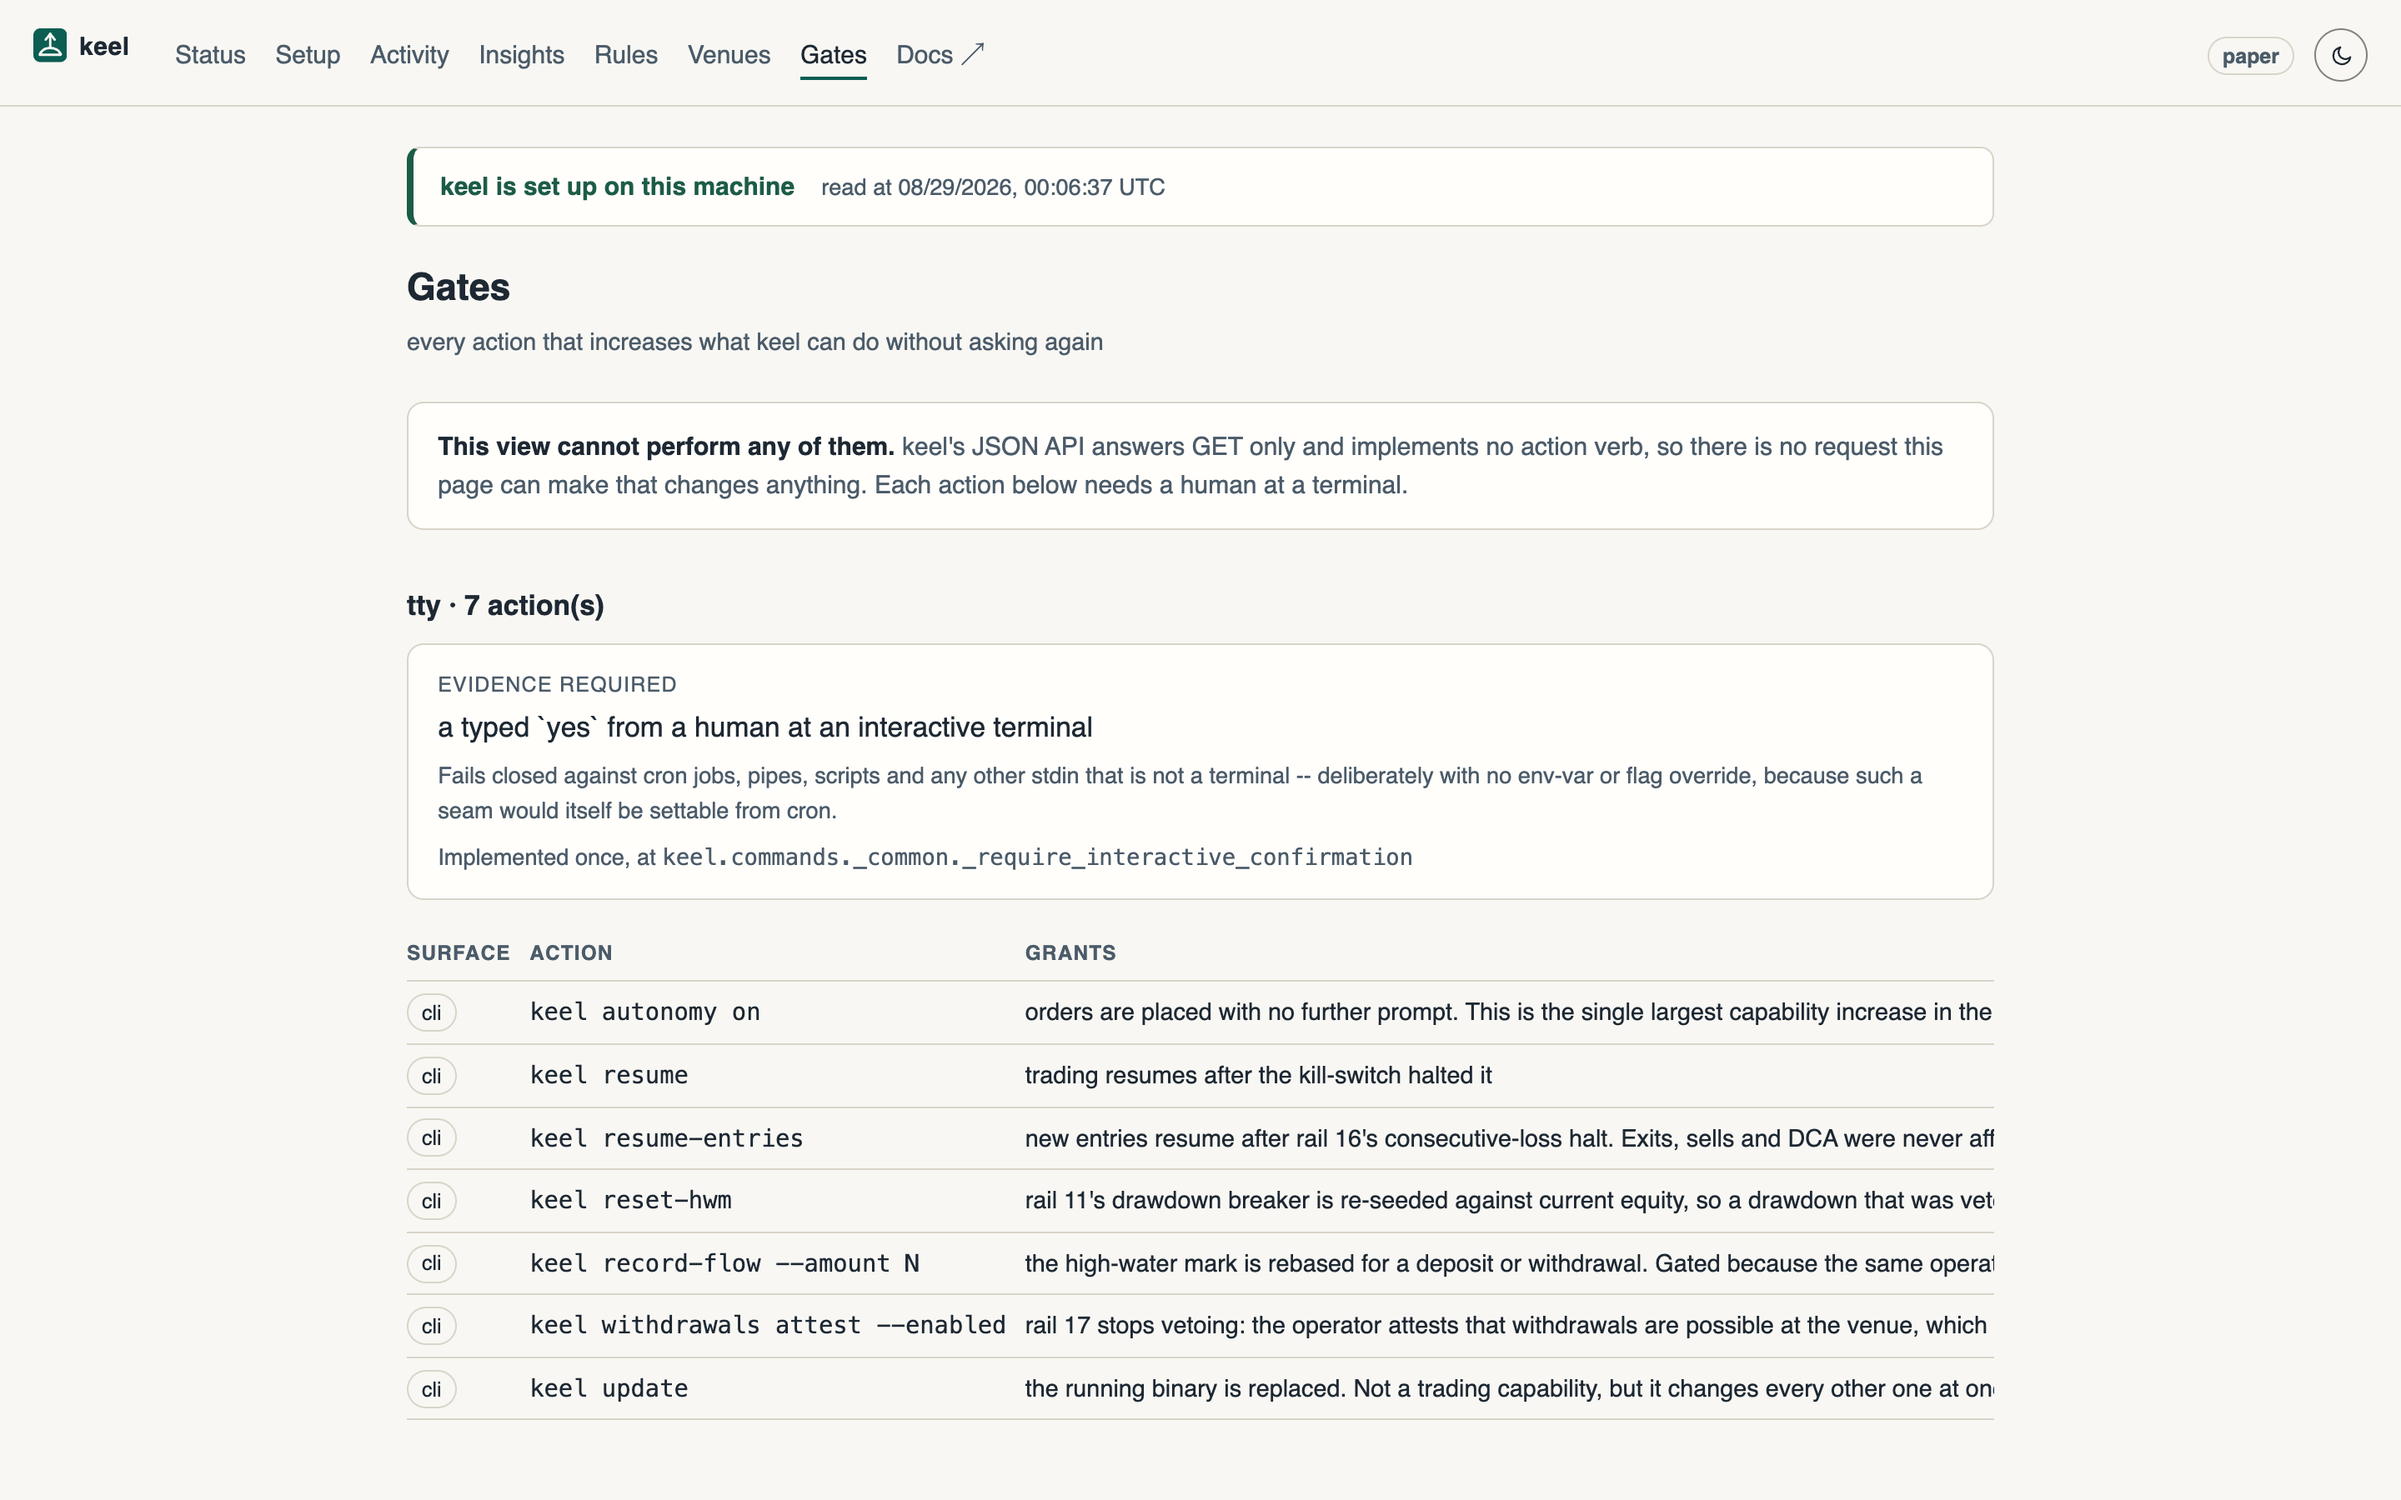
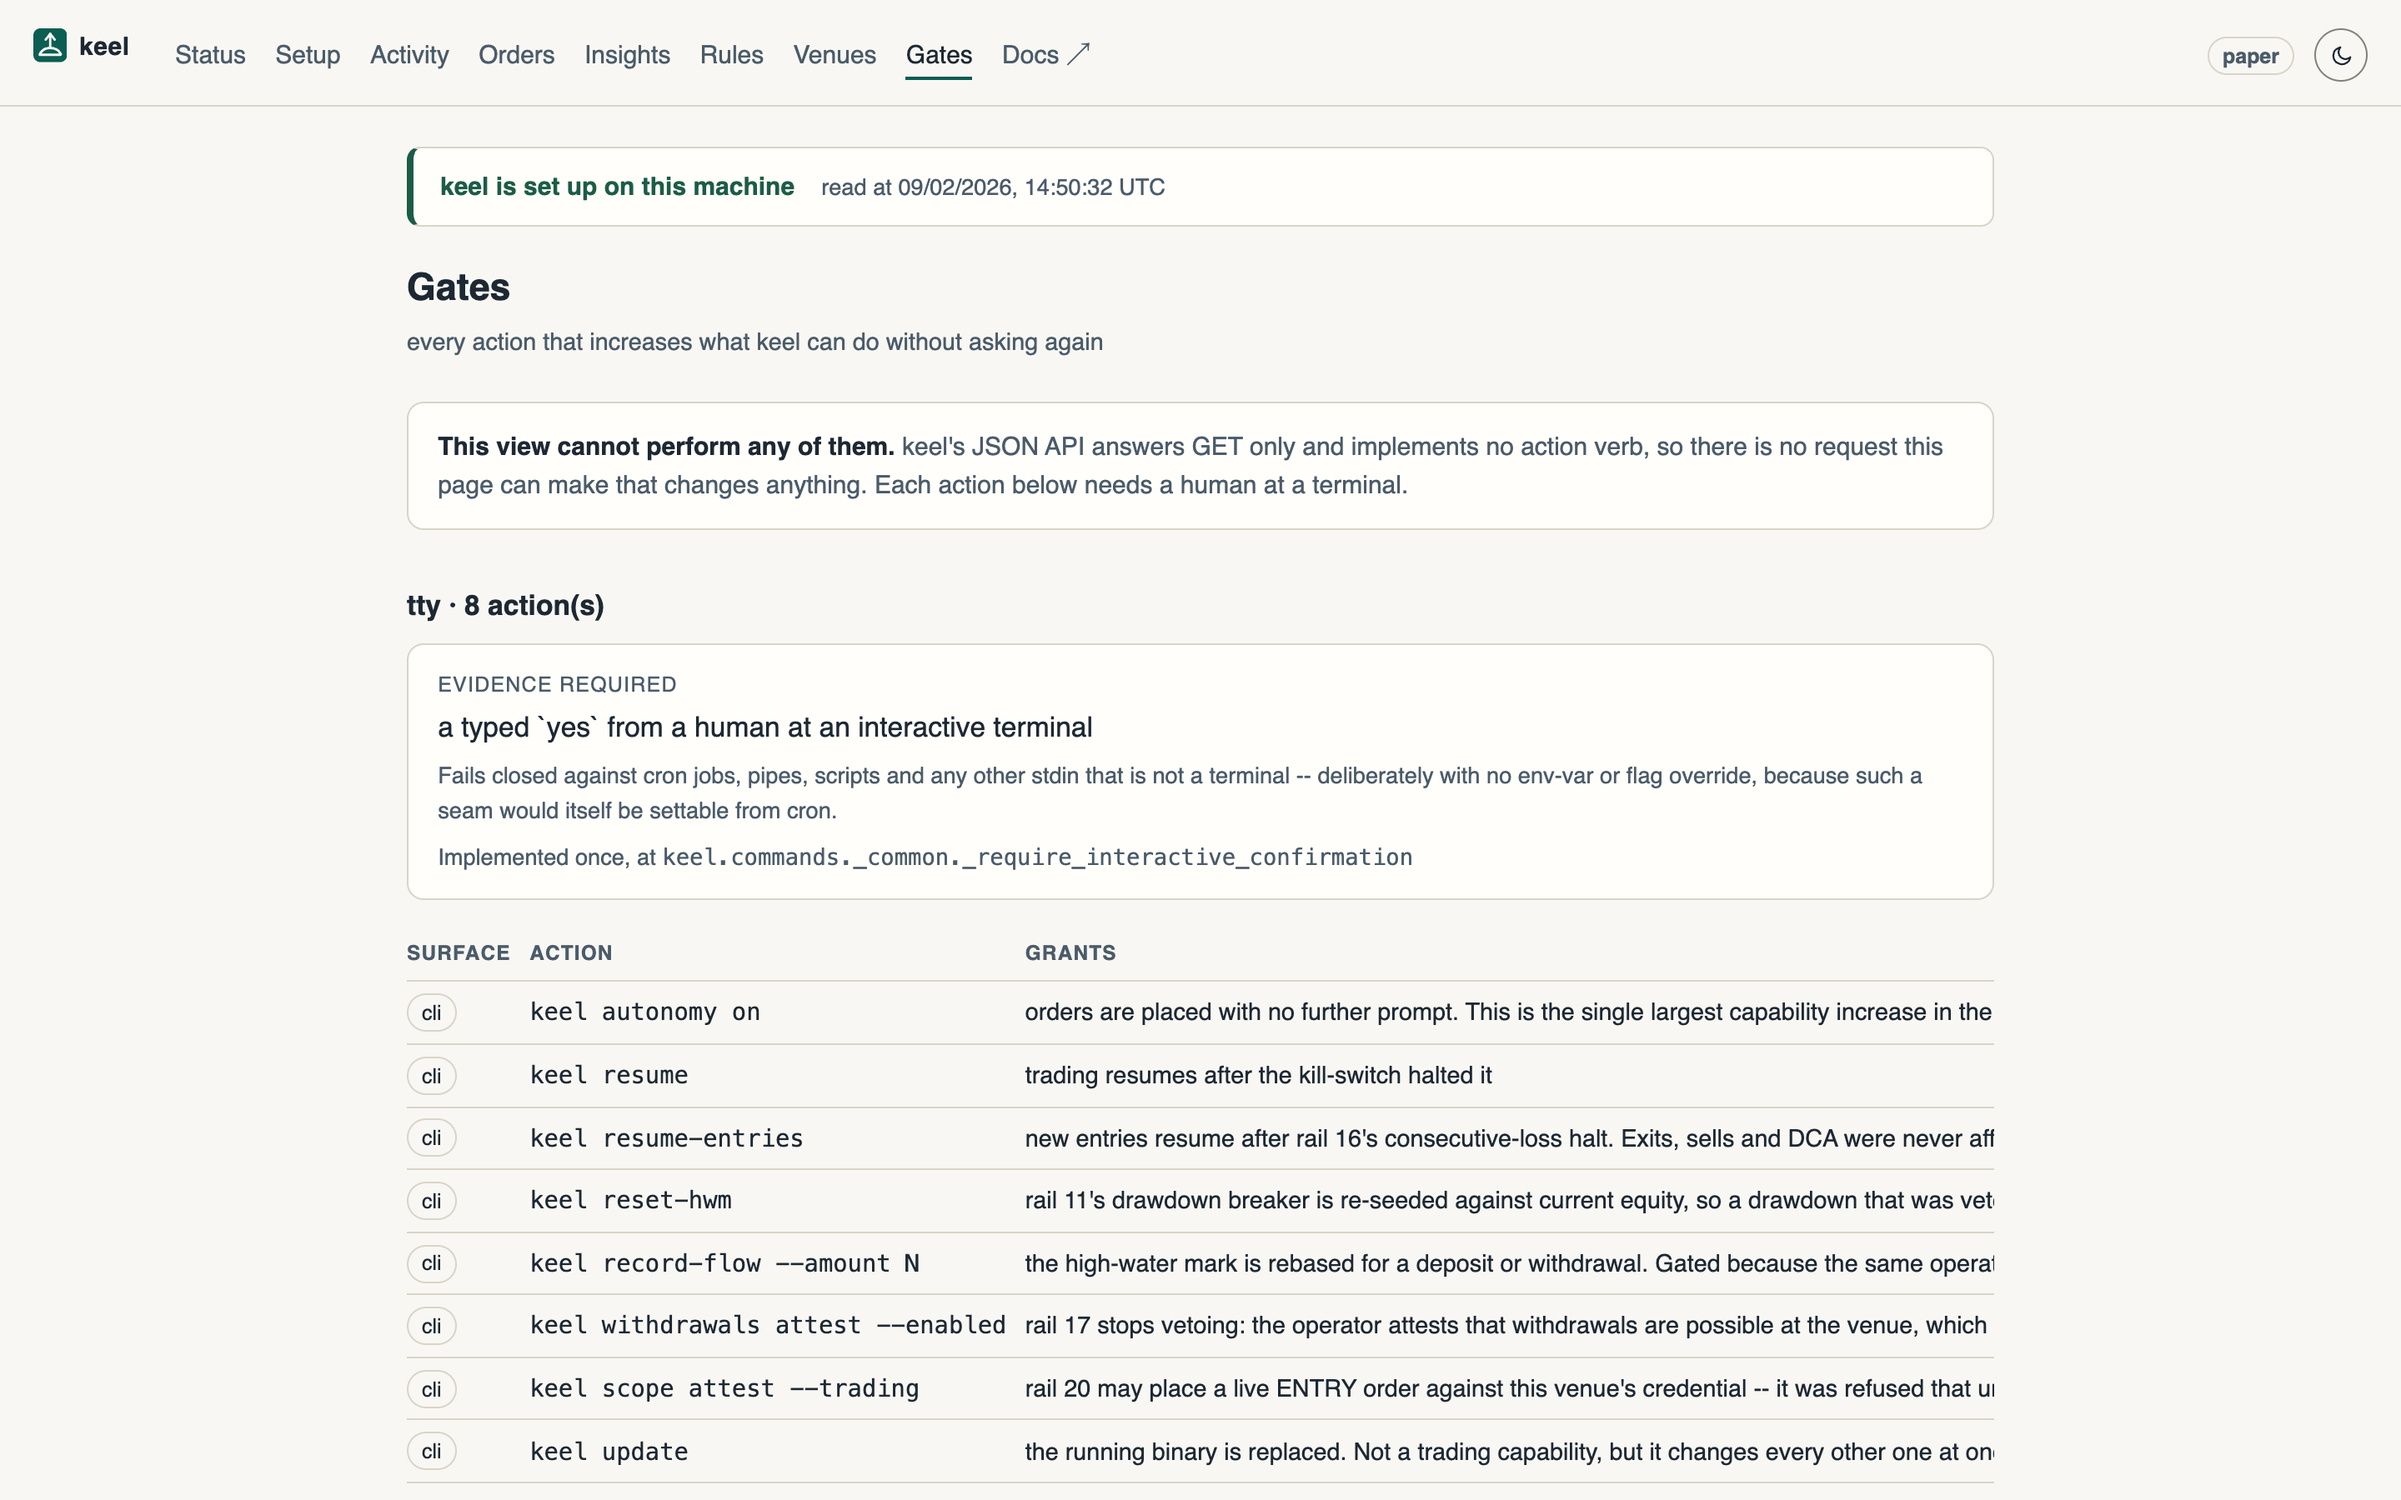
feat(content): sync the guides, the manifest and the comparison to v0.13.3 (#139)
Working-tree copy brought up to what the engine actually ships.

- Get Started: seven console views become eight, with Orders -- the ledger of every
  order placed, each carrying the venue's own bid and ask at submission -- and a new
  step for `keel scope attest --trading`, the rail-20 gate that ships closed.
- The comparison matrix reads 20 rails rather than 18, in all three locales:
  `guards.py` gained rail 20 (trade scope, #233) and rail 21 (base balance, #667),
  numbered 1-14 and 16-21 because rail 15 was retired and its number never reused.
- Engine-docs manifest: adds `docs/architecture.md` and
  `docs/decisions/0004-monetisation-not-now.md`.
- Regenerated web-console screenshots.

diff --git a/src/i18n/guides/content.ts b/src/i18n/guides/content.ts
@@ -1,7 +1,7 @@
 /**
  * Get Started guides — editorial, site-authored newbie walkthroughs (EN for
  * now, like the engine documents themselves). Every command, page and button
- * below was verified against keel v0.12.2: the screenshots in
+ * below was verified against keel v0.13.2: the screenshots in
  * public/get-started/ were captured by scripts/render-webui-shots.mjs from a
  * real `keel serve` console on a fresh paper working directory — the curses
  * TUI these guides used to teach was deleted from the engine before v0.12.2
@@ -66,13 +66,13 @@ export const guides: Guide[] = [
         code: "keel serve",
       },
       {
-        title: "Step 4 — Take the tour: seven views",
+        title: "Step 4 — Take the tour: eight views",
         body: [
-          "keel serve prints a URL carrying a one-time token for this run, opens your browser, and from there everything lives behind the header's seven views. Status (the page you land on) answers \"is it alive\"; Setup is the checklist of what this deployment still needs; Activity, Insights, Rules and Venues report what keel did and found; Gates lists every capability-increasing action and what gates it. The eighth header entry, Docs, links out to the documentation you are reading.",
+          "keel serve prints a URL carrying a one-time token for this run, opens your browser, and from there everything lives behind the header's eight views. Status (the page you land on) answers \"is it alive\"; Setup is the checklist of what this deployment still needs; Activity, Insights, Rules and Venues report what keel did and found; Orders is the ledger of every order placed, each carrying the venue's own bid and ask at the moment keel submitted it; Gates lists every capability-increasing action and what gates it. The ninth header entry, Docs, links out to the documentation you are reading.",
         ],
         shot: "/get-started/webui-status.png",
         shotCaption:
-          "The console's Status view with the seven-view header: Status, Setup, Activity, Insights, Rules, Venues, Gates. The paper badge (top right) is the deployment's mode; the footer says it is served from this machine only.",
+          "The console's Status view with the eight-view header: Status, Setup, Activity, Orders, Insights, Rules, Venues, Gates. The paper badge (top right) is the deployment's mode; the footer says it is served from this machine only.",
       },
       {
         title: "Step 5 — Read the dashboard",
@@ -205,7 +205,7 @@ export const guides: Guide[] = [
         ],
         shot: "/get-started/webui-gates.png",
         shotCaption:
-          "The Gates view: keel autonomy on, keel resume, keel withdrawals attest --enabled and friends — each with what it increases, and the terminal gate (a typed yes at an interactive TTY) it must pass.",
+          "The Gates view: eight actions — keel autonomy on, keel resume, keel withdrawals attest --enabled, keel scope attest --trading and the rest — each with what it increases, and the terminal gate (a typed yes at an interactive TTY) it must pass.",
       },
       {
         title: "Step 2 — Screen and attest the allowlist",
@@ -230,7 +230,14 @@ export const guides: Guide[] = [
         code: "keel withdrawals attest --enabled",
       },
       {
-        title: "Step 5 — Purification, honestly",
+        title: "Step 5 — Attest the venue's trade scope (rail 20)",
+        body: [
+          "A credential that reads fine is not evidence it can trade: keel has watched a well-formed key pass every read and still have its first live order refused by the venue. Rail 20 closes that hole by failing closed — until a venue is attested, keel ships unable to place a live entry on it at all. keel scope attest --trading releases that veto, so it demands a typed yes at a terminal; --read-only only ever reduces capability and stays ungated. The record is bound to the credential that earned it, so a rotated key means re-attesting. Like rail 17, this is entries-only — exits are never affected, because an exit must always be able to leave.",
+        ],
+        code: "keel scope attest --trading",
+      },
+      {
+        title: "Step 6 — Purification, honestly",
         body: [
           "keel purification reports non-compliant income owed to charity (KB §65.9) from what actually ran through the engine. Account-level duties no rail can see — disabling USDC rewards on idle balances, chiefly — appear in the checklist as the venue-interest step, and keel will never show that one as done: the venue's API does not expose enrolment, and a green check that verifies nothing turns an open risk into a false assurance. It stays on the operator's checklist, in the operator runbook.",
         ],

diff --git a/src/i18n/pages/compare.ts b/src/i18n/pages/compare.ts
@@ -181,7 +181,7 @@ const contentFor = (
     Object.entries(content).map(([key, texts]) => [key, texts[locale]]),
   ) as unknown as Omit<CompareContent, "rev" | "translatedFromRev">;
 
-const REV = "2026-08-21.1";
+const REV = "2026-09-02.1";
 
 export const compare: LocalizedPage<CompareContent> = {
   en: { rev: REV, ...contentFor("en") },
@@ -337,9 +337,9 @@ const table: { label: LocalizedCell; cells: [Cell, Cell, Cell, Cell, Cell] }[] =
     },
     cells: [
       {
-        en: "Attested screening that fails closed + 18 rails no order can skip (including qabd)",
-        ar: "فرزٌ موثَّق يرفض عند الفشل + 18 سكةَ أمانٍ لا تُتجاوَز (منها القبض الحُكمي)",
-        fr: "Filtrage attesté qui bloque par défaut + 18 garde-fous incontournables (dont le qabd)",
+        en: "Attested screening that fails closed + 20 rails no order can skip (including qabd)",
+        ar: "فرزٌ موثَّق يرفض عند الفشل + 20 سكةَ أمانٍ لا تُتجاوَز (منها القبض الحُكمي)",
+        fr: "Filtrage attesté qui bloque par défaut + 20 garde-fous incontournables (dont le qabd)",
       },
       NOT_BUILT_IN,
       NOT_BUILT_IN,
